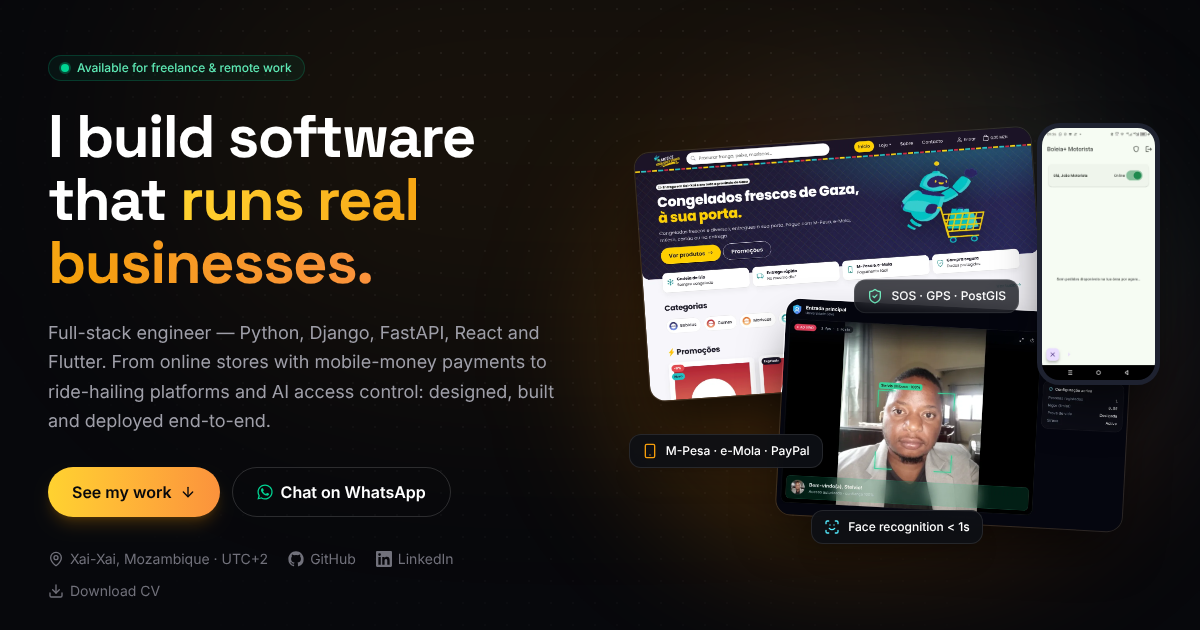
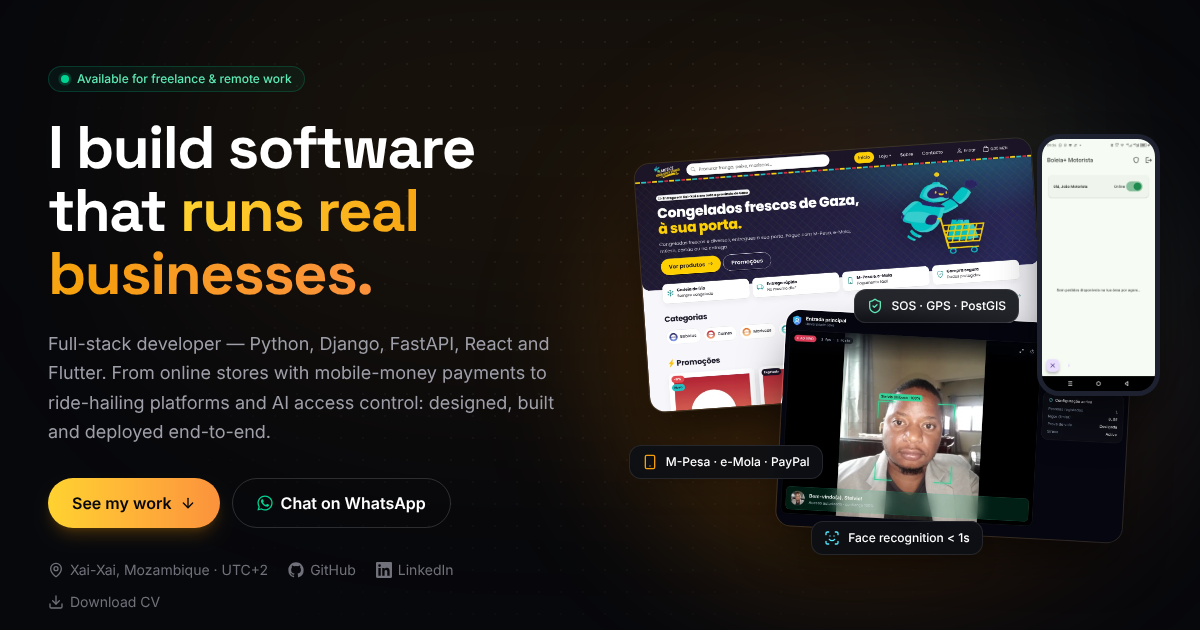
Capa do Boleia+ com pagamento em dinheiro; pré-visualização com "developer" (#12)
- Capa do Boleia+: "M-Pesa" passa a "Pago em dinheiro"
- og.png gerada de novo a partir do site ("Full-stack developer"), com ?v=2 para limpar a cache

diff --git a/index.html b/index.html
@@ -13,10 +13,10 @@
     <meta property="og:title" content="Stélvio Chibuco — Full-Stack Developer" />
     <meta property="og:description" content="I build software that runs real businesses: e-commerce with mobile-money payments, ride-hailing platforms and AI access control." />
     <meta property="og:url" content="https://stelvio-chibuco.netlify.app/" />
-    <meta property="og:image" content="https://stelvio-chibuco.netlify.app/img/og.png" />
+    <meta property="og:image" content="https://stelvio-chibuco.netlify.app/img/og.png?v=2" />
     <meta property="og:image:width" content="1200" />
     <meta property="og:image:height" content="630" />
-    <meta name="twitter:image" content="https://stelvio-chibuco.netlify.app/img/og.png" />
+    <meta name="twitter:image" content="https://stelvio-chibuco.netlify.app/img/og.png?v=2" />
     <link rel="canonical" href="https://stelvio-chibuco.netlify.app/" />
     <meta name="twitter:card" content="summary_large_image" />
     <link rel="preconnect" href="https://fonts.googleapis.com" />
